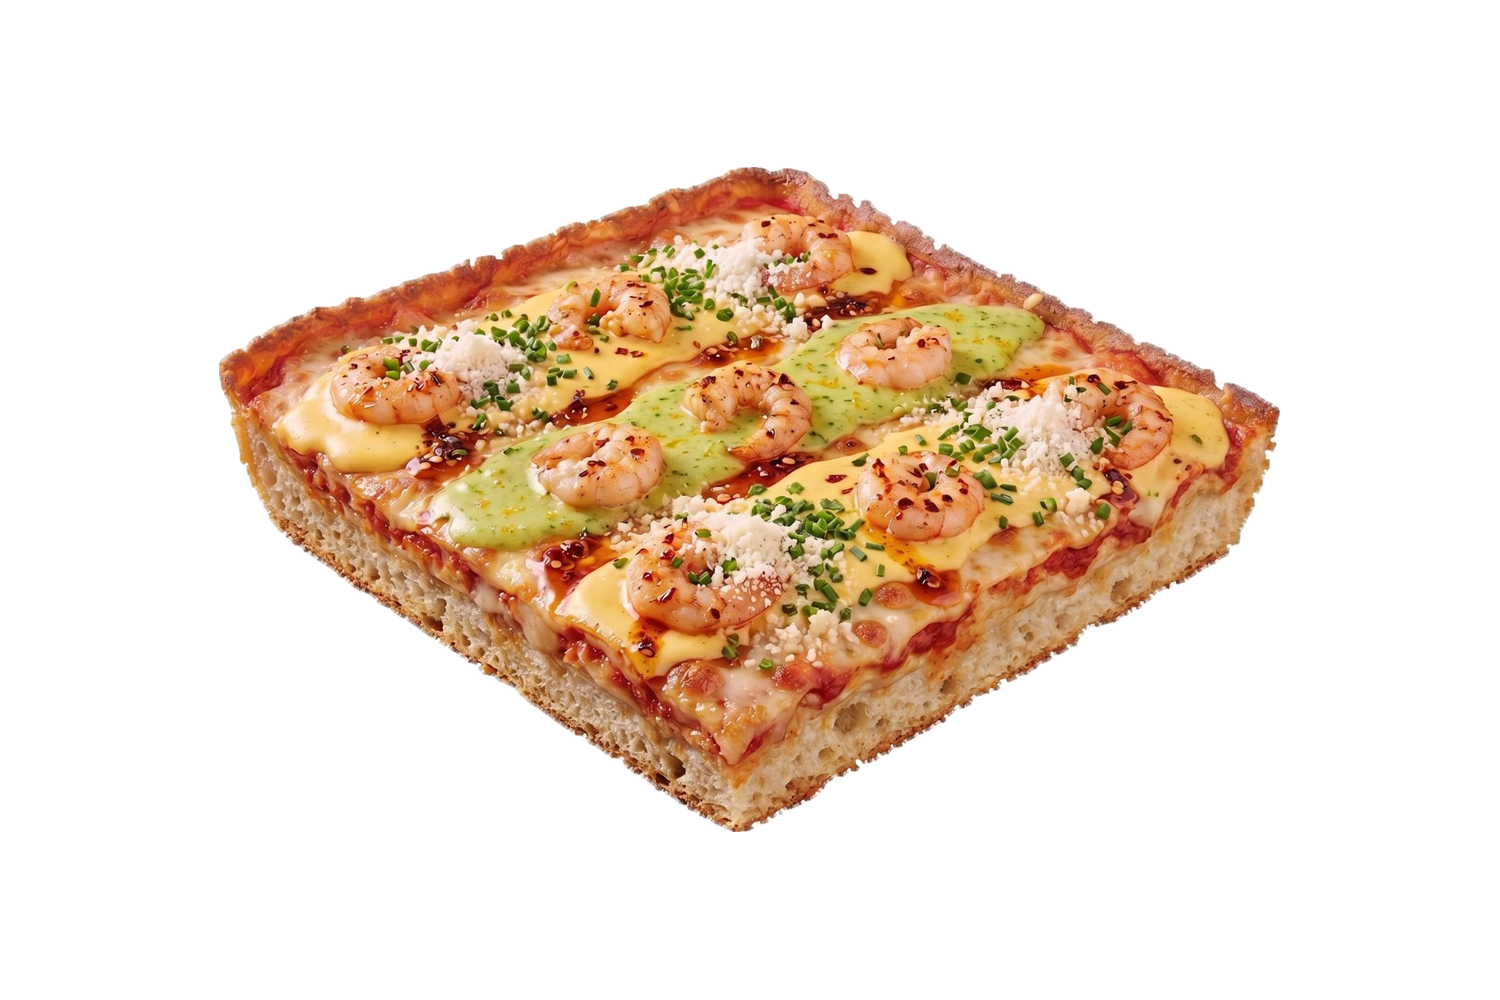
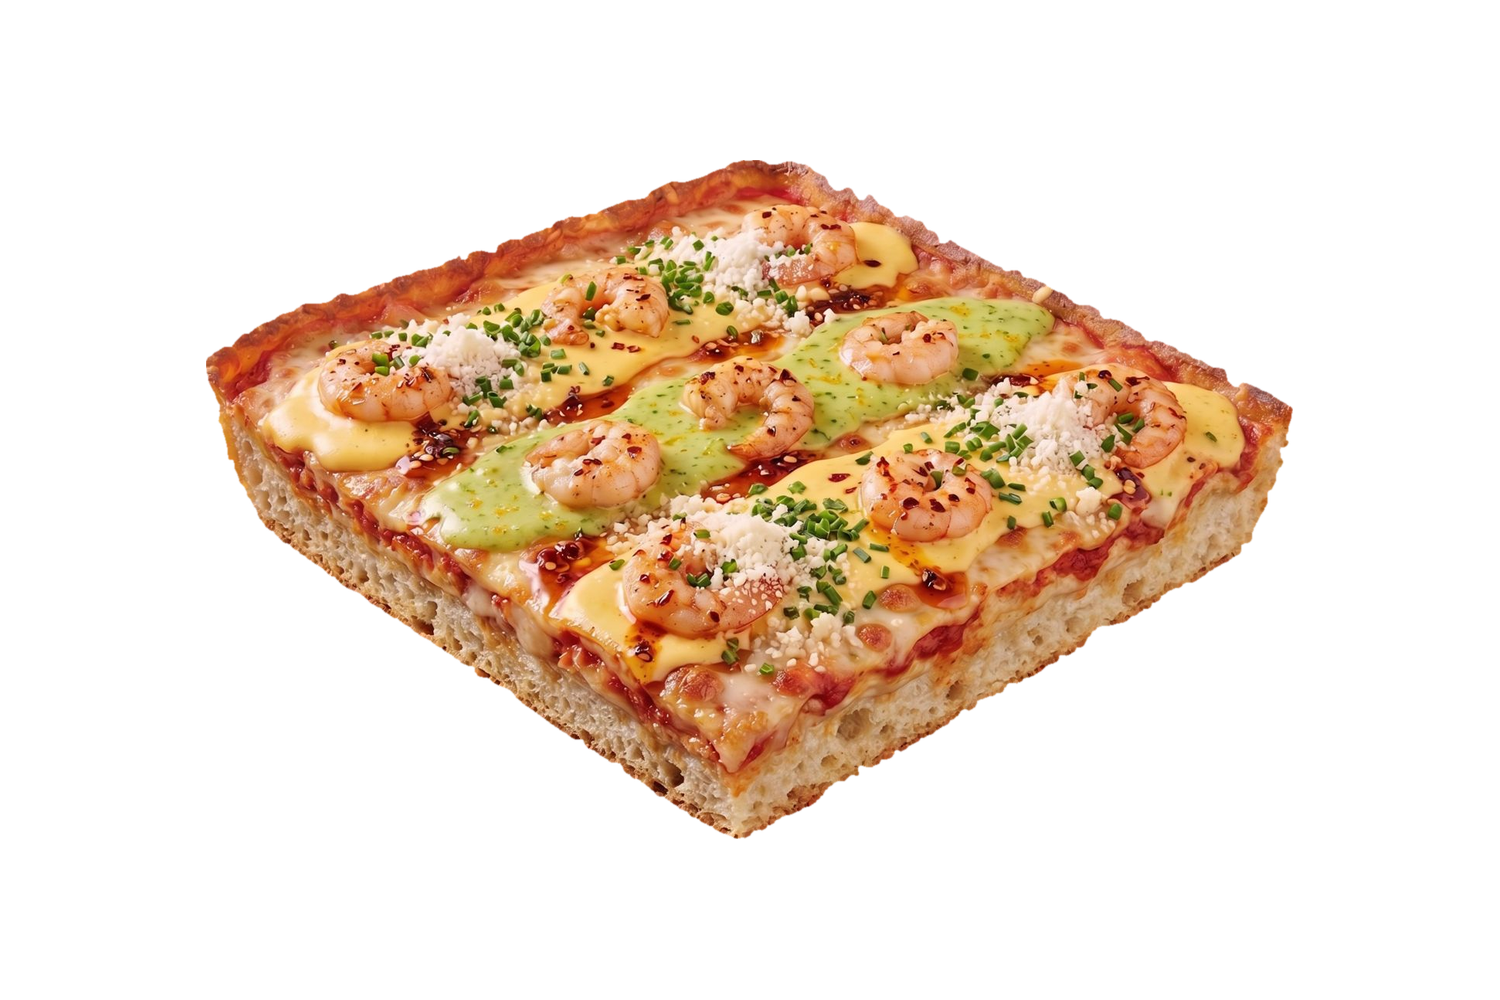
Weisse Restkanten der Stueckbilder entfernt, 20-%-Deal aus der Hero genommen
Stueckbilder: der Studiohintergrund und sein Schlagschatten blieben an
einigen Konturen stehen. Getrennt wird jetzt ueber das Verhaeltnis von
Kanalspanne zu Helligkeit statt ueber die absolute Saettigung — gemessen
liegt der Schatten bei 6 %, die Kruste bei 18 %, und das bleibt auch dort
gueltig, wo der Schatten zur Auflagekante hin dunkler wird. Entfernt wird
davon nur, was mit dem Bildrand zusammenhaengt, damit helle Stellen mitten
auf der Pizza unberuehrt bleiben. Helle Randpixel ueber alle 20 Bilder:
4.017 auf 31. Leinwand, Flaechennormierung und Mittelpunkt unveraendert.

Hero: der 20-%-Eroeffnungsdeal ist raus, samt seiner CSS-Regeln und der
Einblend-Animation. Er trug den Abstand zwischen Headline und Pizza mit,
deshalb entspricht der obere Abstand der Pizza jetzt exakt dem unteren zu
den Buttons.

Changed region(s): [[0.1227, 0.155, 0.8587, 0.837]]

diff --git a/css/style.css b/css/style.css
@@ -424,78 +424,19 @@ body {
 .hero__actions .btn--ghost { color: var(--white); box-shadow: inset 0 0 0 2px var(--white); }
 .hero__actions .btn--ghost:hover { background: var(--white); color: var(--pink); }
 
-/* ---------- Opening deal --------------------------------------------------
-   Typography on the pink, not a card: no surface, no border, no shadow box.
-   It borrows the hero headline's own devices so it reads as part of the
-   original design rather than an insert — Good Times throughout, white as
-   the primary, MOTO blue as the accent, and the same blue offset the
-   outline headline line above it already uses.
-   Compact by construction: two short lines beside the number instead of a
-   stacked block, so the headline keeps the stage and the pizza gets its
-   room back. Stays a flow element, so it can never cover anything. */
-.hero__promo {
-  position: relative; z-index: 2;
-  margin: clamp(10px, 1.6vw, 18px) auto 0;
-  display: inline-flex; align-items: center;
-  gap: clamp(9px, 1.5vw, 15px);
-  color: var(--white);
-}
-.hero__promo-value {
-  display: inline-flex; align-items: center; gap: 0.16em;
-  font-family: var(--font-display);
-  font-size: clamp(2.5rem, 6.4vw, 3.9rem);
-  line-height: 0.82;
-  letter-spacing: -0.035em;
-  color: var(--white);
-  flex: none;
-  /* the same blue that outlines "CRUNCH IN EVERY BITE." directly above,
-     here as a hard offset — a decal edge, not a drop shadow */
-  text-shadow: 0.045em 0.05em 0 var(--blue);
-}
-.hero__promo-pct { font-size: 0.58em; align-self: flex-start; margin-top: 0.12em; }
-.hero__promo-bolt {
-  width: 0.42em; height: 0.62em; flex: none;
-  fill: var(--blue);
-  transform: translateY(-0.02em);
-  filter: drop-shadow(0 0 6px rgba(22, 163, 230, 0.55));
-}
-/* hairline instead of a rule: white at low alpha reads as a fold in the
-   layout rather than a divider drawn on top of it */
-.hero__promo-copy {
-  display: flex; flex-direction: column; gap: 1px;
-  padding-left: clamp(9px, 1.5vw, 15px);
-  border-left: 1px solid rgba(255, 255, 255, 0.38);
-  text-align: left;
-}
-.hero__promo-head {
-  font-family: var(--font-display);
-  font-size: clamp(0.7rem, 1.45vw, 0.9rem);
-  letter-spacing: 0.11em;
-  text-transform: uppercase;
-  color: var(--white);
-  white-space: nowrap;
-}
-.hero__promo-sub {
-  font-family: var(--font-display);
-  font-size: clamp(0.62rem, 1.25vw, 0.78rem);
-  letter-spacing: 0.11em;
-  text-transform: uppercase;
-  color: var(--blue);
-  white-space: nowrap;
-}
-@media (max-width: 380px) {
-  .hero__promo { gap: 8px; margin-top: 8px; }
-  .hero__promo-copy { padding-left: 8px; }
-}
-
 .hero__product {
   position: relative;
   z-index: 1;
   width: 100%;
-  margin-top: 14px;
+  /* der Eroeffnungs-Deal sass frueher zwischen Headline und Pizza und hat den
+     Abstand mitgetragen. Ohne ihn stand die Pizza mit 18 px direkt unter der
+     Headline, waehrend darunter 40 px zu den Buttons blieben. Der obere
+     Abstand entspricht jetzt exakt dem unteren (.hero__actions), damit die
+     Pizza sauber zwischen beiden sitzt statt an der Headline zu kleben. */
+  margin-top: 30px;
   display: flex; align-items: center; justify-content: center;
 }
-@media (min-width: 900px) { .hero__product { margin-top: 18px; } }
+@media (min-width: 900px) { .hero__product { margin-top: 40px; } }
 .hero__product-img {
   width: 100%; height: auto;
   max-height: 46vh;
@@ -579,7 +520,7 @@ body {
   .hero__logo { height: 76px; margin-bottom: 30px; }
   .hero__title { font-size: clamp(1.65rem, 8.1vw, 2.3rem); gap: 3px; }
   .hero__actions { margin-top: 20px; gap: 10px; }
-  .hero__product { margin-top: 10px; }
+  .hero__product { margin-top: 20px; }
   .hero__product-img { max-height: 42vh; }
 }
 
@@ -677,10 +618,6 @@ body {
   .hero__title span:nth-child(1) { animation: heroLineIn 0.5s var(--ease-bam) 0.15s both; }
   .hero__title span:nth-child(2) { animation: heroLineIn 0.5s var(--ease-bam) 0.26s both; }
 
-  /* slots into the existing beat between the headline (0.15/0.26s) and the
-     pizza (0.78s), so the hero still reads strictly top to bottom */
-  .hero__promo { opacity: 0; animation: heroPromoIn 0.5s var(--ease-bam) 0.45s both; }
-
   .hero__product { opacity: 0; animation: heroPizzaIn 0.62s var(--ease) 0.78s both; }
 
   /* last beat of the hero choreography, after the CTAs at 2.4s: he rises the
@@ -723,12 +660,6 @@ body {
 }
 @keyframes heroPizzaIn {
   from { opacity: 0; transform: translateY(64px) scale(0.95); }
-  to   { opacity: 1; transform: translateY(0) scale(1); }
-}
-/* one quiet arrival, then it stays put — deliberately no loop, no pulse,
-   no blink: the card earns attention through contrast, not motion */
-@keyframes heroPromoIn {
-  from { opacity: 0; transform: translateY(14px) scale(0.94); }
   to   { opacity: 1; transform: translateY(0) scale(1); }
 }
 @keyframes heroActionsIn {

diff --git a/index.html b/index.html
@@ -206,21 +206,6 @@
         <span class="hero__title--outline">CRUNCH IN<br>EVERY BITE.</span>
       </h1>
 
-      <!-- opening deal — typographic, no card and no surface of its own: it
-           sits straight on the pink like the rest of the hero type. Flow
-           element, never absolutely positioned, so it cannot cover the logo,
-           the pizza or the CTAs on any viewport. -->
-      <p class="hero__promo">
-        <span class="hero__promo-value">
-          <svg class="hero__promo-bolt" viewBox="0 0 24 24" aria-hidden="true"><path d="M13 2 4 14h6l-1 8 9-12h-6l1-8z"/></svg>
-          20<span class="hero__promo-pct">%</span>
-        </span>
-        <span class="hero__promo-copy">
-          <span class="hero__promo-head">Eröffnungs-Deal</span>
-          <span class="hero__promo-sub">auf alle Pizzen</span>
-        </span>
-      </p>
-
       <div class="hero__product">
         <img
           src="assets/images/pizza-beeflover.png"

diff --git a/PROJECT-HANDOVER.md b/PROJECT-HANDOVER.md
@@ -1,8 +1,14 @@
 # MOTO PIZZA — Projektübergabe
 
-**Stand:** 18.08.2026 · **Letzter Commit:** `0376ead` auf `main` · Working Tree sauber
+**Stand:** 08.09.2026 · **Live auf motopizza.de:** `e76fdaf` (Inhalt = `68b1313`) · Working Tree sauber
 
-Diese Datei ist die **maßgebliche Quelle der Wahrheit**. `README.md` ist veraltet — ignorieren.
+> **Zuerst Abschnitt 14 lesen.** Er beschreibt den aktuellen, live geprüften Stand und
+> ersetzt alles, was die Abschnitte 1–13 über die Speisekarte und das Deployment sagen.
+> Diese Abschnitte stammen vom 18.08.2026 und bleiben nur als Historie erhalten —
+> insbesondere die dort genannten Commits und Menü-Beschreibungen sind überholt.
+> Für Karriere-, Franchise- und Airtable-Themen sind sie weiterhin gültig.
+
+`README.md` ist veraltet — ignorieren.
 Ergänzend: `AIRTABLE-SETUP.md` (Mitarbeiter-System) und `FRANCHISE-SETUP.md` (Franchise-System).
 
 ---
@@ -342,3 +348,111 @@ angelegt sind. Danach:
 4. Erst danach die beiden E-Mail-Automationen scharf schalten und gegentesten
 
 **Keine Code-Änderungen nötig, bevor dieser Test gelaufen ist.**
+
+---
+
+## 14. AKTUELLER STAND — live geprüft am 08.09.2026
+
+**Live auf motopizza.de:** Commit `e76fdaf`. Dessen Inhalt ist identisch mit dem
+freigegebenen `68b1313`; `e76fdaf` ist ein leerer Commit ohne Dateiänderung, der nur
+den Netlify-Build ausgelöst hat.
+
+### 14.1 Netlify — wieder funktionsfähig
+
+Der **Personal Plan ist aktiv**, Production-Deployments laufen wieder. Ein Deploy ist
+etwa 12 Sekunden nach dem Push live.
+
+Vorgeschichte, damit sie sich nicht wiederholt: Zwischen dem 07. und 08.09. baute
+Netlify nicht mehr. Vier Commits (`e3d6ec3`, `d4c81e4`, `b639c5f`, `68b1313`) lagen auf
+GitHub und wurden nicht veröffentlicht; motopizza.de lieferte über zwei Tage unverändert
+`965633d`. Ursache war das **erschöpfte Build-Kontingent**.
+
+**Wichtig für den nächsten solchen Fall:** Netlify holt übersprungene Commits nach dem
+Aufladen **nicht selbsttätig nach**. Es braucht einen neuen Auslöser — entweder im
+Dashboard unter *Deploys → Trigger deploy → Clear cache and deploy site*, oder ein
+leerer Commit (`git commit --allow-empty`), der nichts am Inhalt ändert.
+
+Zur Diagnose taugt weder der Umweg über GitHub-Webhooks (Netlify hängt als GitHub-App
+dran, `/hooks` ist leer) noch über Commit-Status (Netlify schreibt für dieses Repo
+keine). Aussagekräftig ist nur der direkte Vergleich der ausgelieferten Datei, etwa
+`curl -s https://motopizza.de/js/main.js | wc -c` gegen die lokale Größe. Query-Strings
+brechen den Netlify-CDN-Cache **nicht**.
+
+### 14.2 Was die Speisekarte seit dem 18.08. bekommen hat
+
+- **Zwei Karussells**: Detroit Style (eckig, 25 × 25 cm) und New York Style (rund, 45 cm),
+  beide mit denselben zehn Pizzen aus `MOTO_MENU`. Es ist dieselbe Funktion
+  `initPizzaSelector()`, zweimal mit eigener Konfiguration aufgerufen — jeder Aufruf hält
+  seinen Zustand in der eigenen Closure, deshalb sind die beiden unabhängig.
+- **Style-Überschriften** über beiden Karussells, gemeinsame Klasse `style-head`.
+- **Umschalter „Ganze Pizza / Stückpizza"** je Karussell. Die beiden Preiskästen *sind*
+  der Umschalter; ein zusätzliches Bedienelement wäre doppelt gewesen. Der Klick tauscht
+  nur `src` und `alt` der vorhandenen Slides — `pos` bleibt unangetastet, deshalb springt
+  nichts. Standard: Ganze Pizza.
+- **Preise** in `MOTO_PIZZA_STYLES` (`data/menu.js`): Detroit ganz 18,90 €, New York ganz
+  22,00 €, Stück 5,90 € in beiden Styles.
+- **MAX' PICK und TOP SELLER** in beiden Karussells, datengetrieben über die Flaggen
+  `maxPick` und `topSeller`. Max' Pick springt über `goToData()` zum Top Seller — derselbe
+  Weg wie die Pfeile, deshalb erscheint Top Seller auch beim normalen Blättern.
+- **MOTO DEALS** mit sechs Karten: drei Detroit, drei New York, je 6,90 €.
+- **Vorladen** der Stückbilder: einmal ruhig eine Sekunde nach `load`, zusätzlich sobald
+  jemand den Umschalter ansteuert. Gemessen sind nach dem Klick alle Slides sofort da.
+
+### 14.3 Die 20 Stückpizza-Bilder
+
+`assets/images/slice-<id>.png` (Detroit) und `slice-ny-<id>.png` (New York), je zehn.
+Quelle sind echte Stück-Fotos aus `~/Desktop/moto/Moto pizza/`; die Originale dort sind
+unangetastet.
+
+**Nicht erneut „optimieren" oder neu freistellen — der Stand ist freigegeben.**
+
+Wie sie entstanden sind, falls es je wiederholt werden muss:
+
+1. **Freigestellt** wird über die Pizza, nicht über den Hintergrund. Der Weg über den
+   Hintergrund scheitert am Studioschatten: er ist neutral wie der Hintergrund, seine
+   weiche Auslaufkante aber texturiert — je nach Kriterium bleibt ein grauer Saum stehen
+   oder heller Käse am Slice-Rand wird weggeschnitten. Die Pizza ist dagegen eindeutig:
+   entweder farbig (Kruste, Sauce, Belag) oder hell **und** texturiert (Käse, Ricotta).
+   Gemessen liegt die lokale Standardabweichung des Hintergrunds bei 0,7, die der
+   Pizzaoberfläche bei 15,6.
+2. **Kantenreinigung.** Die Weichzeichnung der Maske macht Pixel außerhalb der Kontur
+   halbtransparent — das sind Hintergrund und Schatten, daher der helle Saum. Die weiche
+   Kante sitzt deshalb auf echtem Pizzarand, und die Farbe der Randpixel kommt aus sechs
+   Pixel Tiefe. Mit der Farbe direkt vom Rand bleibt der Saum bestehen, dort liegen schon
+   Mischpixel (gemessen 255, 255, 250).
+3. **Einheitliche Leinwand** 1500 × 1000 für alle 20, skaliert über die **Fläche** der
+   Pizza statt über die Bounding-Box — ein Dreieck und ein Quadrat mit gleich hoher Box
+   wirken sonst unterschiedlich groß. Flächenabweichung über alle 20: unter 0,2 %.
+
+Weil die Einheitlichkeit damit in den Dateien liegt, braucht das CSS **keine Sonderregel
+pro Variante**. Eine frühere Lösung über `--bild-max-h` wurde wieder entfernt; sie darf
+nicht zurückkommen.
+
+### 14.4 Live-Prüfung am 08.09.2026
+
+Auf motopizza.de selbst geprüft, nicht lokal:
+
+| Prüfpunkt | Ergebnis |
+|---|---|
+| Alle vier Kombinationen, je 10 Slides | **40 / 40 fehlerfrei** |
+| Zuordnung Pizza 01 → Stück 01 | durchgehend korrekt |
+| Detroit Stückpizza, gerenderte Bildbox | 654 × 436 bei allen zehn |
+| New York Stückpizza, gerenderte Bildbox | 704 × 469 bei allen zehn |
+| Alle 40 Karussellbilder | HTTP 200, keins fehlt |
+| Kaputte Bilder | 0 |
+| Helle Ränder / abgeschnittene Pizzen | keine, auf Pink und auf Blau geprüft |
+| Horizontaler Overflow Desktop + Mobile | 0 |
+| Konsolenfehler | keine |
+
+### 14.5 Nicht verändern
+
+Detroit- und New-York-Karussell samt Bewegung, Pfeilen, Loop, Easing und Nummerierung ·
+die 20 Stückbilder und die 20 Ganzpizza-Bilder · Namen, Zutaten, Allergene, Reihenfolge ·
+alle Preise · MAX' PICK und TOP SELLER · MOTO DEALS · Dessert · Getränke · Galerie ·
+Navigation · Hero · die Marquee-Zeile „FRISCH AUS DEM DURCHLAUFOFEN".
+
+### 14.6 Arbeitsweise, die sich bewährt hat
+
+Lokale Vorschau nach jeder CSS- oder JS-Änderung auf einem **neuen Port** starten, sonst
+liefert der Browser Zwischenstände aus dem Cache. Deployt wird ausschließlich über
+`git push origin main`; Netlify baut selbst.
